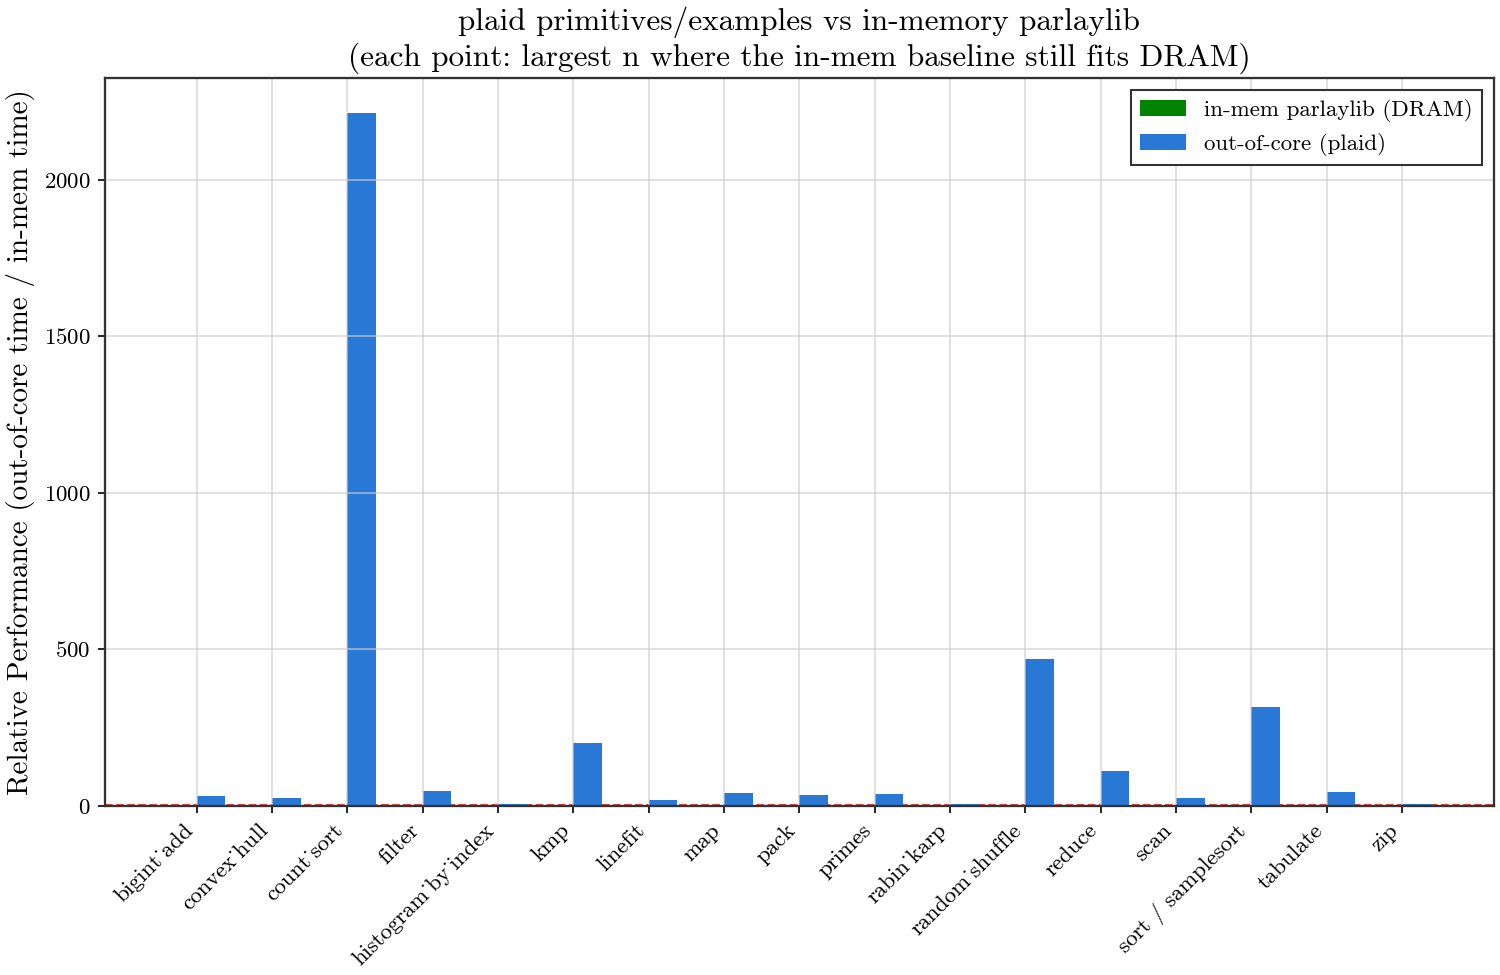
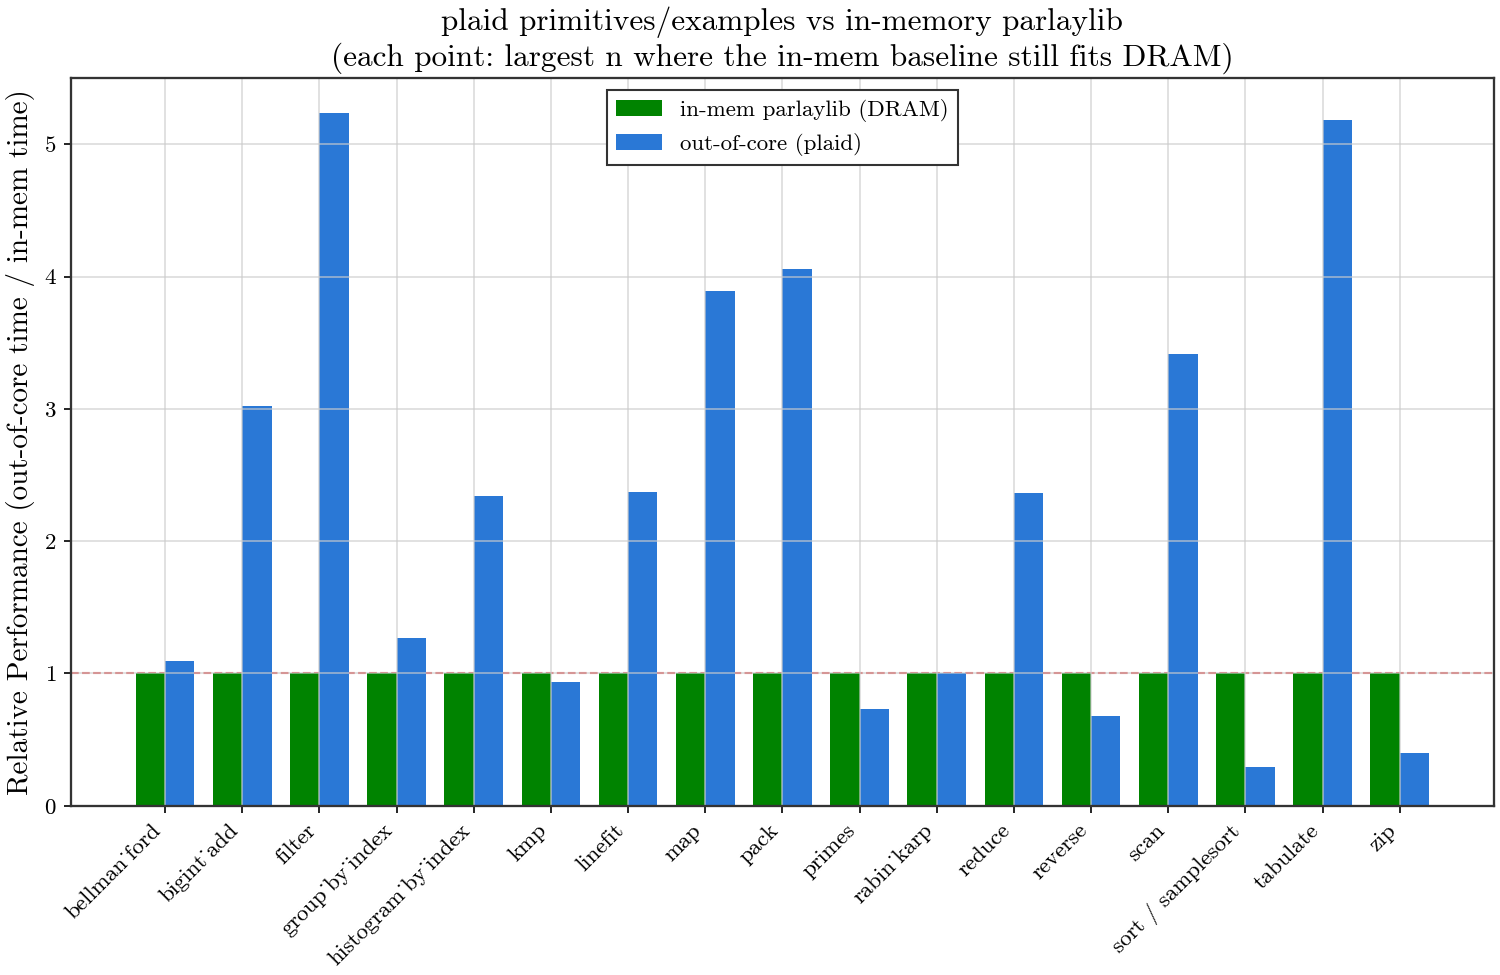
5 test fix

diff --git a/benchmarks/run_benches.py b/benchmarks/run_benches.py
@@ -172,7 +172,9 @@ EXAMPLES = [
               "throughput_gb_s"],
      "time_col": "select_s", "inmem_col": "inmem_select_s",
      "elem_bytes": 8, "input_seqs": 1,
-     "budget_base": "phys", "budget_mult": 16,
+     "budget_base": "phys", "budget_mult": 20,  # 16 is parlaylib's own estimate;
+     # padded for real-world overhead (fragmentation, page cache pressure from
+     # the on-disk input) observed to push actual peak RSS past the 16n cliff
      "xlabel": "input size",
      "title": "kth-smallest selection: out-of-core (plaid) vs in-mem parlaylib",
      "data_globs": ["kth_in*", "next_*"]},
@@ -184,7 +186,8 @@ EXAMPLES = [
      "cols": ["n", "build_s", "hull_s", "inmem_hull_s", "count", "throughput_gb_s"],
      "time_col": "hull_s", "inmem_col": "inmem_hull_s",
      "elem_bytes": 32, "input_seqs": 1,
-     "budget_base": "phys/2", "budget_mult": 32,  # plus a separate n<2^31 cap
+     "budget_base": "phys/2", "budget_mult": 32,
+     "max_n": (1 << 31) - 1,  # convex_hull.cpp's baseline hard-caps at n<2^31
      "xlabel": "input size",
      "title": "Upper convex hull: out-of-core (quickhull) vs in-mem parlaylib",
      "data_globs": ["ch_in*", "ch_scratch*"]},
@@ -238,7 +241,7 @@ EXAMPLES = [
               "count", "throughput_gb_s"],
      "time_col": "total_s", "inmem_col": "inmem_s",
      "elem_bytes": 16, "input_seqs": 1,
-     "budget_base": "phys/2", "budget_mult": 1,
+     "budget_base": "phys/2", "budget_mult": 16,  # matches fft.cpp's N*sizeof(cd)<=budget
      "xlabel": "input size",
      "title": "FFT (transpose-free): out-of-core (plaid) vs in-mem four-step",
      "data_globs": ["fft_in*", "fft_s1*"]},
@@ -275,7 +278,7 @@ EXAMPLES = [
               "inmem_s", "count", "throughput_gb_s"],
      "time_col": "total_s", "inmem_col": "inmem_s",
      "elem_bytes": 16, "input_seqs": 1,
-     "budget_base": "phys/2", "budget_mult": 1,
+     "budget_base": "phys/2", "budget_mult": 16,  # matches fft.cpp's N*sizeof(cd)<=budget
      "xlabel": "input size",
      "title": "FFT (explicit transpose): out-of-core (plaid) vs in-mem four-step",
      "data_globs": ["fft_in*", "fft_s1*", "fft_t*", "fft_t2*"]},
@@ -358,7 +361,7 @@ EXAMPLES = [
      "elem_bytes": 8, "input_seqs": 1,
      "budget_base": "phys/2", "budget_mult": 24,
      "xlabel": "input size",
-     "title": "reverse: out-of-core (plaid) vs in-mem std::reverse",
+     "title": "reverse: out-of-core (plaid) vs in-mem parlaylib",
      "data_globs": ["rev_in*"]},
 
     {"name": "histogram_by_index", "target": "bin/primitive_demosExample", "pre_argv": ["histogram_by_index"],

diff --git a/ChunkSequence/examples/primitive_demos.cpp b/ChunkSequence/examples/primitive_demos.cpp
@@ -1841,8 +1841,11 @@ int run(int argc, char* argv[]) {
     std::cout << "in-mem parlay::random_shuffle   " << std::setprecision(4)
               << inmem_shuffle_s << "s\n";
 
-    auto ref = keys_mem;  // the key set, sorted: the permutation target
-    parlay::sort_inplace(ref);
+    // Sort keys_mem in place as the permutation target -- it's not needed
+    // unmodified after this point, so reuse it instead of an extra n-element
+    // copy (peak stays ~32n as check_ok assumes, not ~40n).
+    parlay::sort_inplace(keys_mem);
+    auto& ref = keys_mem;
 
     // Sorting a valid shuffle of the input must reproduce the key set exactly
     // (the keys are distinct), so this catches a dropped, duplicated, or
@@ -1917,7 +1920,8 @@ namespace demo_reverse {
 // Builds an n-element uint64_t input (value i at index i), reverses it in
 // place via plaid::reverse (Primitives/secondary_primitives.h — one
 // O_DIRECT read + write per chunk, no extra output files), and cross-checks
-// the readback against std::reverse on an identical in-memory copy.  Note
+// the readback against parlay::reverse_inplace on an identical in-memory
+// copy.  Note
 // plaid::reverse does not preserve the dense-except-last chunk invariant (see
 // its doc comment) — the demo only reads the result back via to_vector, which
 // is safe.
@@ -1988,9 +1992,9 @@ int run(int argc, char* argv[]) {
   if (inmem_ok) {
     auto mem = parlay::tabulate(n, [](size_t i) { return (uint64_t)i; });
     t0 = Clock::now();
-    std::reverse(mem.begin(), mem.end());
+    parlay::reverse_inplace(mem);
     inmem_rev_s = elapsed(t0);
-    std::cout << "in-mem std::reverse: " << std::setprecision(4)
+    std::cout << "in-mem parlay::reverse_inplace: " << std::setprecision(4)
               << inmem_rev_s << "s\n";
 
     std::vector<uint64_t> ours = seq.to_vector<uint64_t>();
@@ -2008,11 +2012,11 @@ int run(int argc, char* argv[]) {
       }
       if (agree)
         std::cout << "cross-check: out-of-core reverse matches in-mem "
-                     "std::reverse exactly\n";
+                     "parlay::reverse_inplace exactly\n";
     }
   } else {
-    std::cout << "in-mem std::reverse: skipped (~24n footprint exceeds RAM "
-                 "budget "
+    std::cout << "in-mem parlay::reverse_inplace: skipped (~24n footprint "
+                 "exceeds RAM budget "
               << std::setprecision(2) << to_gb(budget) << " GB)\n";
   }
 

diff --git a/benchmarks/summary_figure.py b/benchmarks/summary_figure.py
@@ -125,9 +125,16 @@ def get_budget(budget_base, env_var="EXAMPLE_INMEM_BUDGET_BYTES"):
 
 
 def predict_n(entry, scale):
-    """Target n for a 'generic' entry: budget/mult, chunk-grid rounded."""
+    """Target n for a 'generic' entry: budget/mult, chunk-grid rounded.
+
+    Some entries hard-cap their in-mem baseline below whatever the RAM
+    budget would otherwise allow (e.g. convex_hull's n<2^31 upstream int
+    index limit) -- "max_n", if present, clamps the prediction to that.
+    """
     budget = get_budget(entry["budget_base"])
     n_target = max(1, int(budget / entry["budget_mult"] * SAFETY * scale))
+    if "max_n" in entry:
+        n_target = min(n_target, entry["max_n"])
     size_bytes = n_target * entry["elem_bytes"] * entry["input_seqs"]
     return rb.size_to_n(entry, size_bytes)
 
@@ -196,10 +203,14 @@ def run_summary(bellman_ford_n, extra_ssd_args, clear_glob, clear_enabled, warni
             if problem:
                 w = f"summary {label} ({name}) at n={n}: {problem}"
                 print(f"  !!! {w}", flush=True)
-                warnings.append(w)
+                if attempt < max_attempts:
+                    warnings.append(w)
                 rb.clear_bench_data(clear_glob, clear_enabled)
-                if not fields:
-                    break  # crashed / no CSV -- no point retrying blindly
+                # A crash (no CSV) is often the same RAM-cliff-adjacent
+                # problem as a blank inmem field (e.g. real peak RSS
+                # slightly exceeds a budget estimate) -- shrink and retry
+                # the same as any other cliff miss, rather than giving up
+                # on the first attempt.
                 scale *= SHRINK
                 continue
 
